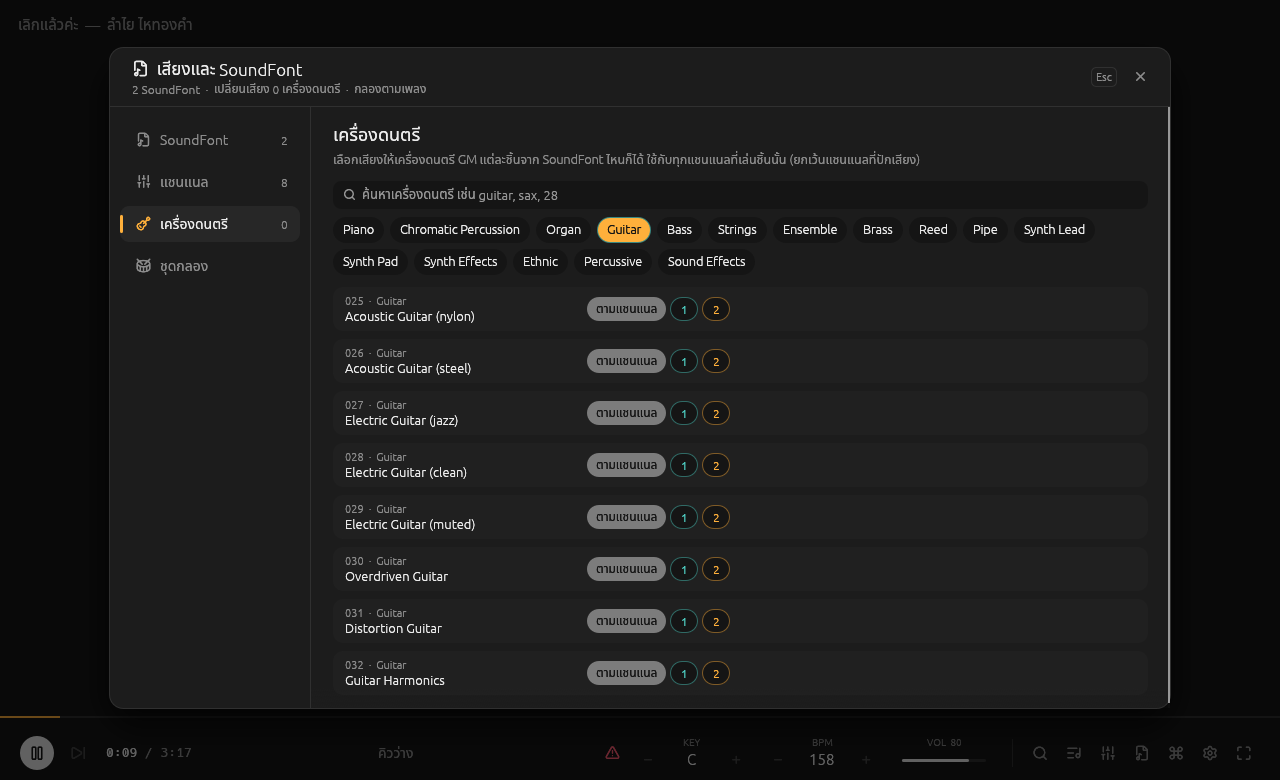
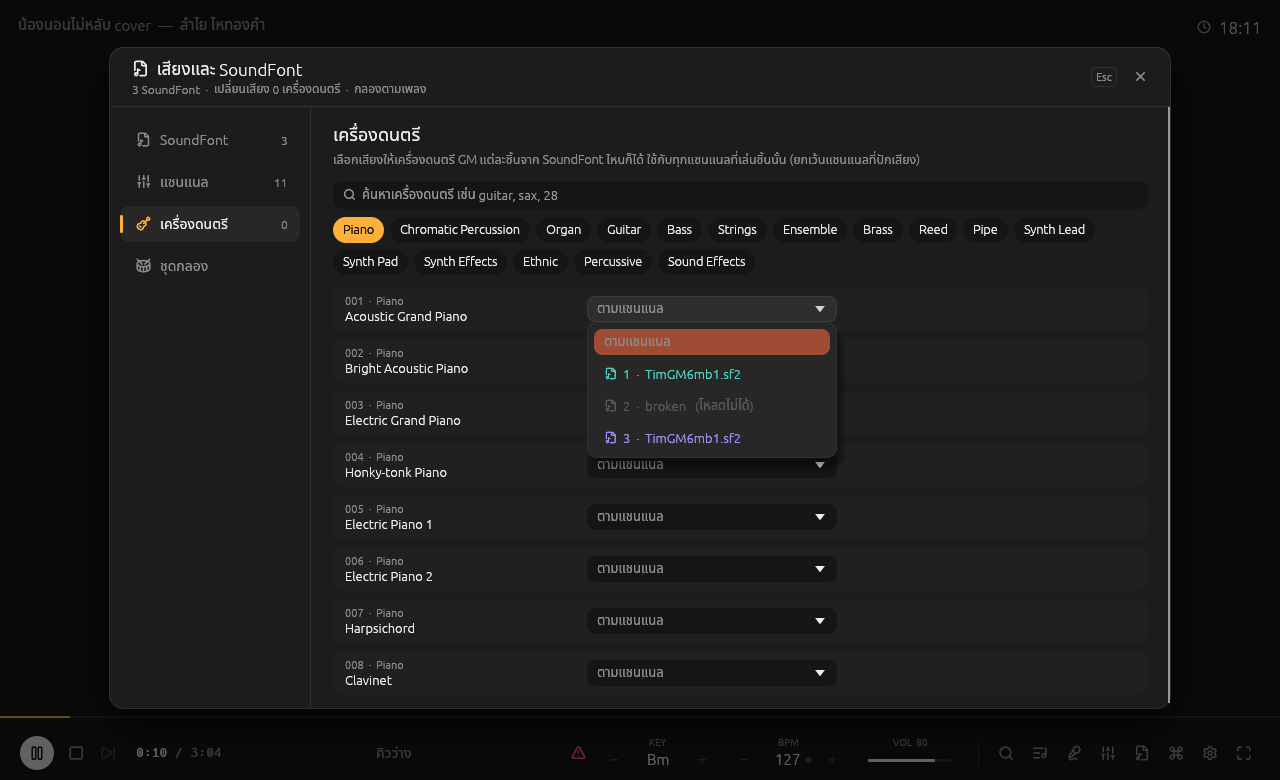
Karaoke: SoundFont drop-downs, an emptied rack stays empty
- Every page of the sound window picks SoundFonts from a drop-down
  (number, colour and file name) instead of numbered chips: channels,
  instruments, the drum kit and each kit piece. Fonts still loading or
  broken are listed, greyed out, instead of disappearing.
- A SoundFont is looked for on disk only on the first run (no
  config.json yet), so removing every font is not undone at the next
  start.

Claude-Session: https://claude.ai/code/session_01E3546E88DePuGSRtsqiRAW

diff --git a/app/karaoke/src/ui/sound.rs b/app/karaoke/src/ui/sound.rs
@@ -188,36 +188,39 @@ fn font_badge(ui: &mut egui::Ui, index: usize, size: f32) {
     ui.painter().text(rect.center(), Align2::CENTER_CENTER, (index + 1).to_string(), FontId::proportional(size * 0.5), c);
 }
 
-/// One chip per loaded font (plus an optional "none" chip); returns the
-/// new choice when one was clicked.
-fn font_chips(ui: &mut egui::Ui, app: &KaraokeApp, current: Option<usize>, none: Option<&str>) -> Option<Option<usize>> {
-    let mut out = None;
-    ui.horizontal(|ui| {
-        ui.spacing_mut().item_spacing.x = 4.0;
-        let mut chip = |ui: &mut egui::Ui, key: Option<usize>, label: String, color: Color32, tip: String| {
-            let on = current == key;
-            let g = ui.painter().layout_no_wrap(label.clone(), FontId::proportional(12.0), TEXT);
-            let w = (g.size().x + 18.0).max(28.0);
-            let (rect, resp) = ui.allocate_exact_size(vec2(w, 24.0), Sense::click());
-            let p = ui.painter();
-            let fill = if on { color.gamma_multiply(0.85) } else if resp.hovered() { color.gamma_multiply(0.18) } else { INK };
-            p.rect_filled(rect, CornerRadius::same(12), fill);
-            if !on {
-                p.rect_stroke(rect, CornerRadius::same(12), Stroke::new(1.0, color.gamma_multiply(0.45)), egui::StrokeKind::Inside);
-            }
-            p.text(rect.center(), Align2::CENTER_CENTER, label, FontId::proportional(12.0), if on { INK } else { color });
-            if resp.on_hover_text(tip).clicked() && !on {
-                out = Some(key);
-            }
-        };
+/// SoundFont drop-down: each font with its number, colour and file name,
+/// plus an optional "none" entry. Fonts still loading or broken are listed
+/// but cannot be picked. Returns the new choice when it changed.
+fn font_picker(
+    ui: &mut egui::Ui,
+    app: &KaraokeApp,
+    id: impl std::hash::Hash + std::fmt::Debug,
+    current: Option<usize>,
+    none: Option<&str>,
+    width: f32,
+) -> Option<Option<usize>> {
+    let label = |i: usize, name: &str| RichText::new(format!("{}  {}  ·  {}", icons::FILE_MUSIC, i + 1, name)).color(font_color(i));
+    let shown = match current {
+        Some(i) => app.synth.fonts().get(i).map_or_else(|| RichText::new("—"), |f| label(i, &f.name())),
+        None => RichText::new(none.unwrap_or("—")).color(DIM),
+    };
+    let mut pick = current;
+    egui::ComboBox::from_id_salt(id).selected_text(shown).width(width).height(320.0).show_ui(ui, |ui| {
         if let Some(none) = none {
-            chip(ui, None, none.to_string(), DIM, none.to_string());
+            ui.selectable_value(&mut pick, None, RichText::new(none).color(DIM));
         }
-        for (i, f) in app.synth.fonts().iter().enumerate().filter(|(_, f)| f.inst.is_some()) {
-            chip(ui, Some(i), (i + 1).to_string(), font_color(i), f.name());
+        for (i, f) in app.synth.fonts().iter().enumerate() {
+            let state = if f.loading() { Some("กำลังโหลด…") } else if f.error.is_some() { Some("โหลดไม่ได้") } else { None };
+            let text = match state {
+                Some(state) => RichText::new(format!("{}  {}  ·  {}   ({state})", icons::FILE_MUSIC, i + 1, f.name())).color(DIM),
+                None => label(i, &f.name()),
+            };
+            ui.add_enabled_ui(f.inst.is_some(), |ui| {
+                ui.selectable_value(&mut pick, Some(i), text);
+            });
         }
     });
-    out
+    (pick != current).then_some(pick)
 }
 
 // ------------------------------------------------------------------ fonts
@@ -371,7 +374,7 @@ fn channels_tab(app: &mut KaraokeApp, panel: &mut SoundPanel, ui: &mut egui::Ui)
                             ui.add(egui::Label::new(RichText::new(name).color(if pinned { SUNG } else if active { TEXT } else { DIM })).truncate());
                         });
 
-                        if let Some(Some(f)) = font_chips(ui, app, Some(font), None) {
+                        if let Some(Some(f)) = font_picker(ui, app, ("ch-font", ch), Some(font), None, 190.0) {
                             app.synth.set_route(ch, f);
                         }
 
@@ -486,7 +489,7 @@ fn instruments_tab(app: &mut KaraokeApp, panel: &mut SoundPanel, ui: &mut egui::
                         ui.label(RichText::new(format!("{:03}  ·  {}", program + 1, gm::FAMILIES[program as usize / 8])).size(11.0).color(DIM));
                         ui.label(RichText::new(gm::INSTRUMENTS[program as usize]).color(if current.is_some() { SUNG } else { TEXT }));
                     });
-                    if let Some(f) = font_chips(ui, app, current.map(|s| s.font), Some("ตามแชนแนล")) {
+                    if let Some(f) = font_picker(ui, app, ("gm-font", program), current.map(|s| s.font), Some("ตามแชนแนล"), 250.0) {
                         change = Some((program, f.and_then(|f| default_sound(app, f, program))));
                     }
                     if let Some(sound) = current {
@@ -557,7 +560,7 @@ fn piece_rows(app: &mut KaraokeApp, ui: &mut egui::Ui) {
                             let note = if piece.is_some() { sound } else { format!("ตามชุดหลัก · {sound}") };
                             ui.add(egui::Label::new(RichText::new(note).size(11.0).color(if piece.is_some() { SUNG } else { DIM })).truncate());
                         });
-                        if let Some(choice) = font_chips(ui, app, piece.map(|s| s.font), Some("ตามชุดหลัก")) {
+                        if let Some(choice) = font_picker(ui, app, ("piece-font", g), piece.map(|s| s.font), Some("ตามชุดหลัก"), 250.0) {
                             let sound = choice.and_then(|font| default_kit(app, font));
                             app.synth.set_piece(g, sound);
                         }
@@ -610,7 +613,7 @@ fn drums_tab(app: &mut KaraokeApp, ui: &mut egui::Ui) {
     ui.horizontal(|ui| {
         ui.label(RichText::new("SoundFont").color(DIM));
         let font = app.synth.routing()[DRUM_CH];
-        if let Some(Some(f)) = font_chips(ui, app, Some(font), None) {
+        if let Some(Some(f)) = font_picker(ui, app, "drum-font", Some(font), None, 250.0) {
             app.synth.set_route(DRUM_CH, f);
         }
     });

diff --git a/app/karaoke/src/config.rs b/app/karaoke/src/config.rs
@@ -169,6 +169,11 @@ impl ConfigFile {
         }
     }
 
+    /// Settings were read from the file (it is not the first run).
+    pub fn existed(&self) -> bool {
+        !self.written.is_empty()
+    }
+
     /// Write the settings if they changed since the last write (atomic:
     /// a temporary file renamed over the old one).
     pub fn save(&mut self, settings: &Settings) -> Result<(), String> {
@@ -201,6 +206,7 @@ mod tests {
         let legacy = Settings { volume: 0.5, ..Settings::default() };
         let (mut s, err) = file.load(Some(legacy));
         assert!(err.is_none());
+        assert!(!file.existed(), "first run");
         assert_eq!(s.volume, 0.5, "first run takes the old settings");
         s.soundfonts = vec![PathBuf::from("/fonts/gm.sf2")];
         s.drum_lock = Some((128, 16));
@@ -213,7 +219,9 @@ mod tests {
         file.save(&s).unwrap();
         assert_eq!(std::fs::metadata(&path).unwrap().modified().unwrap(), modified, "unchanged: not rewritten");
 
-        let (back, _) = ConfigFile::new(Some(path.clone())).load(None);
+        let mut again = ConfigFile::new(Some(path.clone()));
+        let (back, _) = again.load(None);
+        assert!(again.existed(), "the file is there now");
         assert_eq!(back.to_json(), s.to_json());
         assert_eq!(back.fx.reverb_room, 0.9);
 

diff --git a/app/karaoke/src/app.rs b/app/karaoke/src/app.rs
@@ -121,9 +121,10 @@ impl KaraokeApp {
         if let Some(e) = app.synth.output_error.clone() {
             app.toast_error(format!("ไม่มีเสียงออก: {e}"));
         }
-        // The saved rack, else an older single font, else one found on disk.
+        // The saved rack, else an older single font, else (first run only)
+        // one found on disk. A rack emptied on purpose stays empty.
         let mut fonts = std::mem::take(&mut app.settings.soundfonts);
-        if fonts.is_empty() {
+        if fonts.is_empty() && !app.config.existed() {
             fonts.extend(app.settings.soundfont.take().filter(|p| p.is_file()).or_else(library::find_soundfont));
         }
         for path in fonts {
